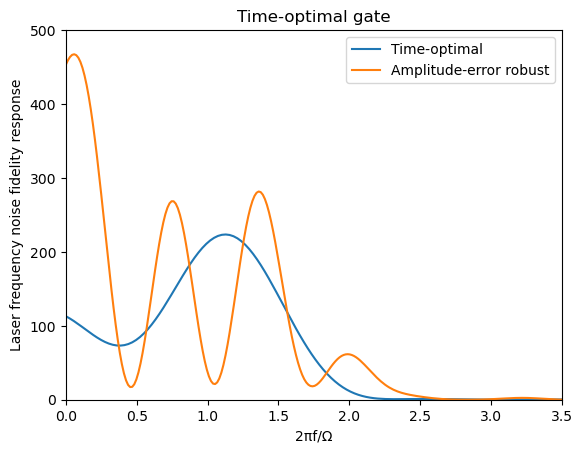
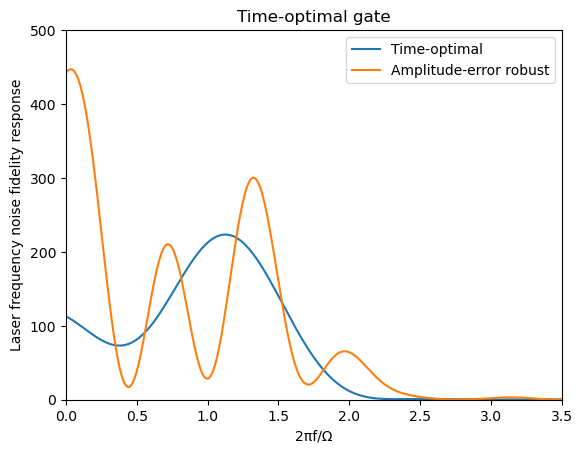
Documenting amplitude-error robust example

diff --git a/docs/src/examples.md b/docs/src/examples.md
@@ -186,7 +186,7 @@ H(t) = H_0(t) + H_1(\epsilon_1) + \cdots + H_{n_e}(\epsilon_{n_e})
 
 where ``H_i(0) = 0``, and ``H_i(\epsilon_i)`` represents the additional Hamiltonian due to some error ``\epsilon_i``. One may also define a _noise operator_ ``O_i = \frac{\partial H_i}{\partial \epsilon_i} (0)``.
 
-These Hamiltonians ``H_i`` can be used to define an error source `ErrorSource(Herr)` with `Herr(t,x,x_add,eps) = some matrix`. Here we first consider two types of error: amplitude errors on the laser drive (parametrized by `\epsilon`) and angular frequency errors between the ground state manifold and the Rydberg manifold (parametrized by `\delta`). Note that, because we consider a symmetric system, these errors apply to both atoms at the same time. Hence, the frequency errors cannot represent uncorrelated errors due to, e.g., Doppler-induced dephasing.
+These Hamiltonians ``H_i`` can be used to define an error source `ErrorSource(Herr)` with `Herr(t,x,x_add,eps) = some matrix`. Here we first consider two types of error: amplitude errors on the laser drive (parametrized by `\epsilon`) and angular frequency errors between the ground state manifold and the Rydberg manifold (parametrized by ``\delta``). Note that, because we consider a symmetric system, these errors apply to both atoms at the same time. Hence, the frequency errors cannot represent uncorrelated errors due to, e.g., Doppler-induced dephasing.
 
 Let's define these Hamiltonians and we alter our `FidelityRobustGRAPEProblem` to include these error sources.
 
@@ -208,7 +208,7 @@ rydberg_problem_with_errors = (@set rydberg_problem.unitary_problem.error_source
 
 ### Static error sensitivity
 
-Now we can analyze how sensitive our previously optimized pulse is to a static error induced by these noise sources, by computing ``\frac{\partial^2 F}{\partial^ \epsilon_i^2}``. Later on, we will demonstrate how to include this sensitivity to the optimization procedure.
+Now we can analyze how sensitive our previously optimized pulse is to a static error induced by these noise sources, by computing ``\frac{\partial^2 F}{\partial \epsilon_i^2}``. Later on, we will demonstrate how to include this sensitivity to the optimization procedure.
 
 ```julia
 # Analyze sensitivity to errors with previously optimized pulse
@@ -220,6 +220,11 @@ F, _, F_d2err, _ = calculate_fidelity_and_derivatives(rydberg_problem_with_error
 println("Infidelity: $(1-F)")
 println("Sensitivity to amplitude errors: F = 1 - $(-F_d2err[1]/2) × ϵ²")
 println("Sensitivity to frequency errors: F = 1 - $(-F_d2err[2]/2) × δ²")
+
+# Returns
+# Infidelity: 1.3855583347321954e-13
+# Sensitivity to amplitude errors: F = 1 - 4.211625822890814 × ϵ²
+# Sensitivity to frequency errors: F = 1 - 2.8602011006871577 × δ²
 ```
 
 
@@ -301,6 +306,99 @@ rydberg_pops = calculate_expectation_values(rydberg_problem_with_decay, optim_pu
 # Extract the final integrated Rydberg population (first error source, end of evolution)
 rydberg_pop = rydberg_pops[end, 1]
 println("Integrated Rydberg population: $(rydberg_pop)/Ω")
+# Returns:
+# Integrated Rydberg population: 2.963973401634995/Ω
 ```
 
 The integrated Rydberg population is a dimensionless quantity that, when multiplied by the decay rate, gives the total probability of decay during the gate operation. Lower values indicate a more resilient gate against decoherence.
+
+## Amplitude-Error Robust CZ Gate
+
+RobustGRAPE allows us to design pulses that are resilient to specific types of errors by including the error sensitivity in the optimization cost function. Here we show how to obtain the (approximate) amplitude-error resilient pulse derived in this [work](https://link.aps.org/doi/10.1103/PRXQuantum.4.020336) for a total gate time ``T \approx 14.32/\Omega``.
+
+The full working example is available in the `RobustGRAPE/examples/ar_cz.jl` notebook.
+
+### Setting up the robust optimization
+
+To design an amplitude-error robust gate, we include the amplitude error source in our problem definition and set a non-zero coefficient for the error sensitivity term in the cost function:
+
+```julia
+# Reduce the number of time steps for faster calculation
+ntimes = 150
+# Define the problem with amplitude error
+rydberg_problem_ar = (@set rydberg_problem.unitary_problem.error_sources = [
+    ErrorSource(H_amplitude_error)
+])
+# Use a longer evolution time for improved robustness
+rydberg_problem_ar = (@set rydberg_problem_ar.unitary_problem.t0 = 14.32)
+
+# Configure parameters for robust optimization
+rydberg_cz_parameters_ar = (@set rydberg_cz_parameters.error_source_coeff = [1e-4])
+rydberg_cz_parameters_ar = (@set rydberg_cz_parameters_ar.time_limit = 300)
+rydberg_cz_parameters_ar = (@set rydberg_cz_parameters_ar.regularization_coeff1 = [1e-6])
+rydberg_cz_parameters_ar = (@set rydberg_cz_parameters_ar.regularization_coeff2 = [1e-6])
+
+# Run optimization
+res_optim_cz_ar = optimize_fidelity_and_error_sources(rydberg_problem_ar, rydberg_cz_parameters_ar)
+optim_pulse_ar = Optim.minimizer(res_optim_cz_ar)
+```
+
+Note that we increase the regularization coefficients as we find that it helps achieve better convergence when including error robustness in the optimization.
+
+### Comparing time-optimal and robust pulses
+
+The phase profiles of the time-optimal and amplitude-robust gates differ significantly:
+
+```julia
+fig, ax = subplots()
+ax.plot((1:ntimes) / ntimes * t0_to, unwrap_phase(optim_pulse[1:ntimes]), label="Time-optimal")
+ax.plot((1:ntimes) / ntimes * t0_ar, unwrap_phase(optim_pulse_ar[1:ntimes]), label="Amplitude-error robust")
+ax.set_xlabel("Time (1/Ω)")
+ax.set_ylabel("Laser phase (rad)")
+ax.legend()
+```
+
+![Time-optimal vs Amplitude-error robust CZ gates](./assets/ar_vs_to.png)
+
+### Comparing error sensitivities and frequency responses
+
+We can directly compare the sensitivity of both gates to various error sources:
+
+```julia
+# Create problem definitions with both error sources for comparison
+rydberg_problem_with_errors = (@set rydberg_problem.unitary_problem.error_sources = [
+    ErrorSource(H_amplitude_error),
+    ErrorSource(H_frequency_error)
+])
+
+rydberg_problem_with_errors_ar = (@set rydberg_problem_ar.unitary_problem.error_sources = [
+    ErrorSource(H_amplitude_error),
+    ErrorSource(H_frequency_error)
+])
+
+# Calculate frequency response for both gates
+response_fct, frequencies = calculate_fidelity_response_fft(rydberg_problem_with_errors,optim_pulse; oversampling=30)
+response_fct_ar, frequencies_ar = calculate_fidelity_response_fft(rydberg_problem_with_errors_ar,optim_pulse_ar; oversampling=30)
+
+# Compare Rydberg state population (relevant for decay)
+rydberg_pop = calculate_expectation_values(rydberg_problem_with_decay, optim_pulse)[end,1]
+rydberg_pop_ar = calculate_expectation_values(rydberg_problem_with_decay_ar, optim_pulse_ar)[end,1]
+println("Time-optimal gate")
+println("Integrated Rydberg population: $(rydberg_pop)/Ω")
+
+println("\nAmplitude-error robust gate")
+println("Integrated Rydberg population: $(rydberg_pop_ar)/Ω")
+
+# Returns:
+# Time-optimal gate
+# Integrated Rydberg population: 2.963781384493184/Ω
+
+# Amplitude-error robust gate
+# Integrated Rydberg population: 5.198968153640445/Ω
+```
+
+The robust gate shows dramatically improved resilience against static amplitude errors compared to the time-optimal gate. This resilience comes with a steep trade-off in terms of sensitivity to dynamic intensity noise and to frequency noise, as well as increased gate duration and integrated Rydberg population:
+
+![Intensity noise response comparison](./assets/ar_to_intensity_noise.png)
+
+![Frequency noise response comparison](./assets/ar_to_frequency_noise.png)
